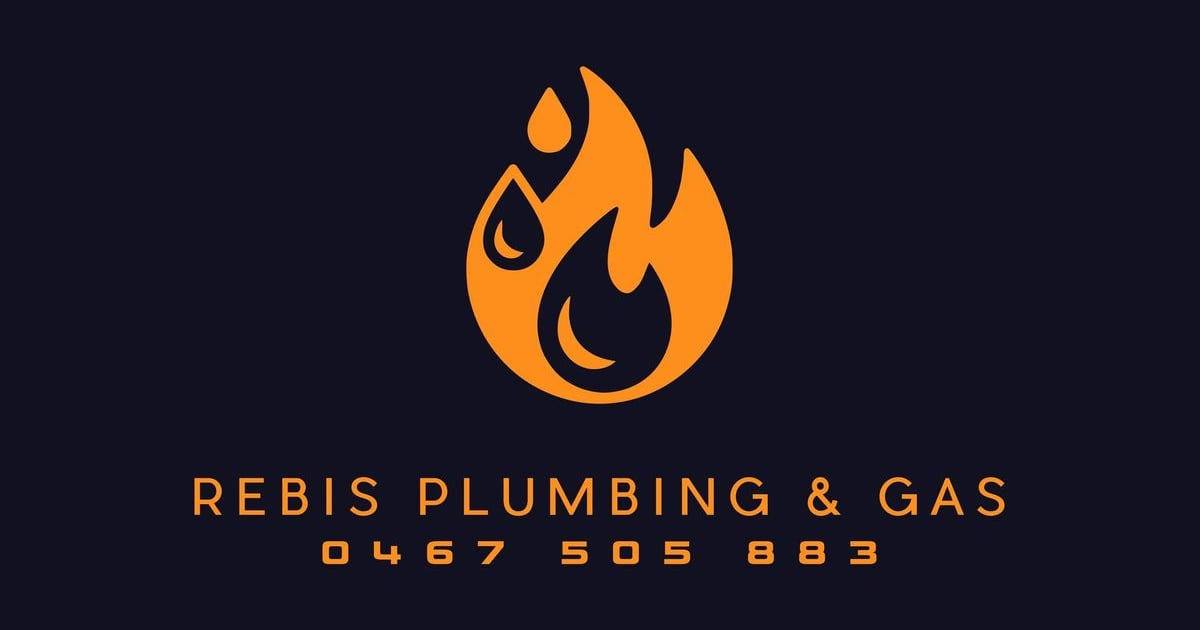
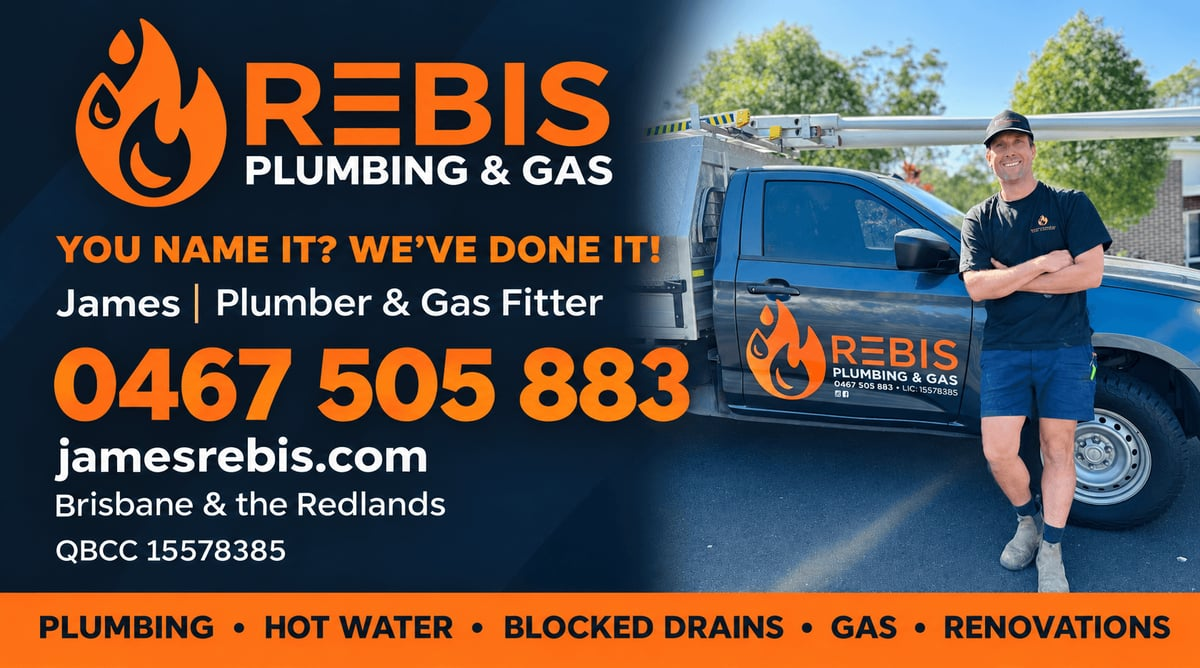
Use the business card as the social share image

diff --git a/site/index.html b/site/index.html
@@ -17,6 +17,10 @@
 <meta property="og:description" content="You name it? We've done it! Plumbing and gas across Brisbane and the Redlands. Call 0467 505 883.">
 <meta property="og:url" content="https://jamesrebis.com/">
 <meta property="og:image" content="https://jamesrebis.com/images/og.jpg">
+<meta property="og:image:width" content="1200">
+<meta property="og:image:height" content="668">
+<meta property="og:image:alt" content="Rebis Plumbing &amp; Gas business card: James beside the work ute, 0467 505 883, Brisbane and the Redlands">
+<meta name="twitter:card" content="summary_large_image">
 <meta property="og:locale" content="en_AU">
 <link rel="preconnect" href="https://fonts.googleapis.com">
 <link rel="preconnect" href="https://fonts.gstatic.com" crossorigin>
